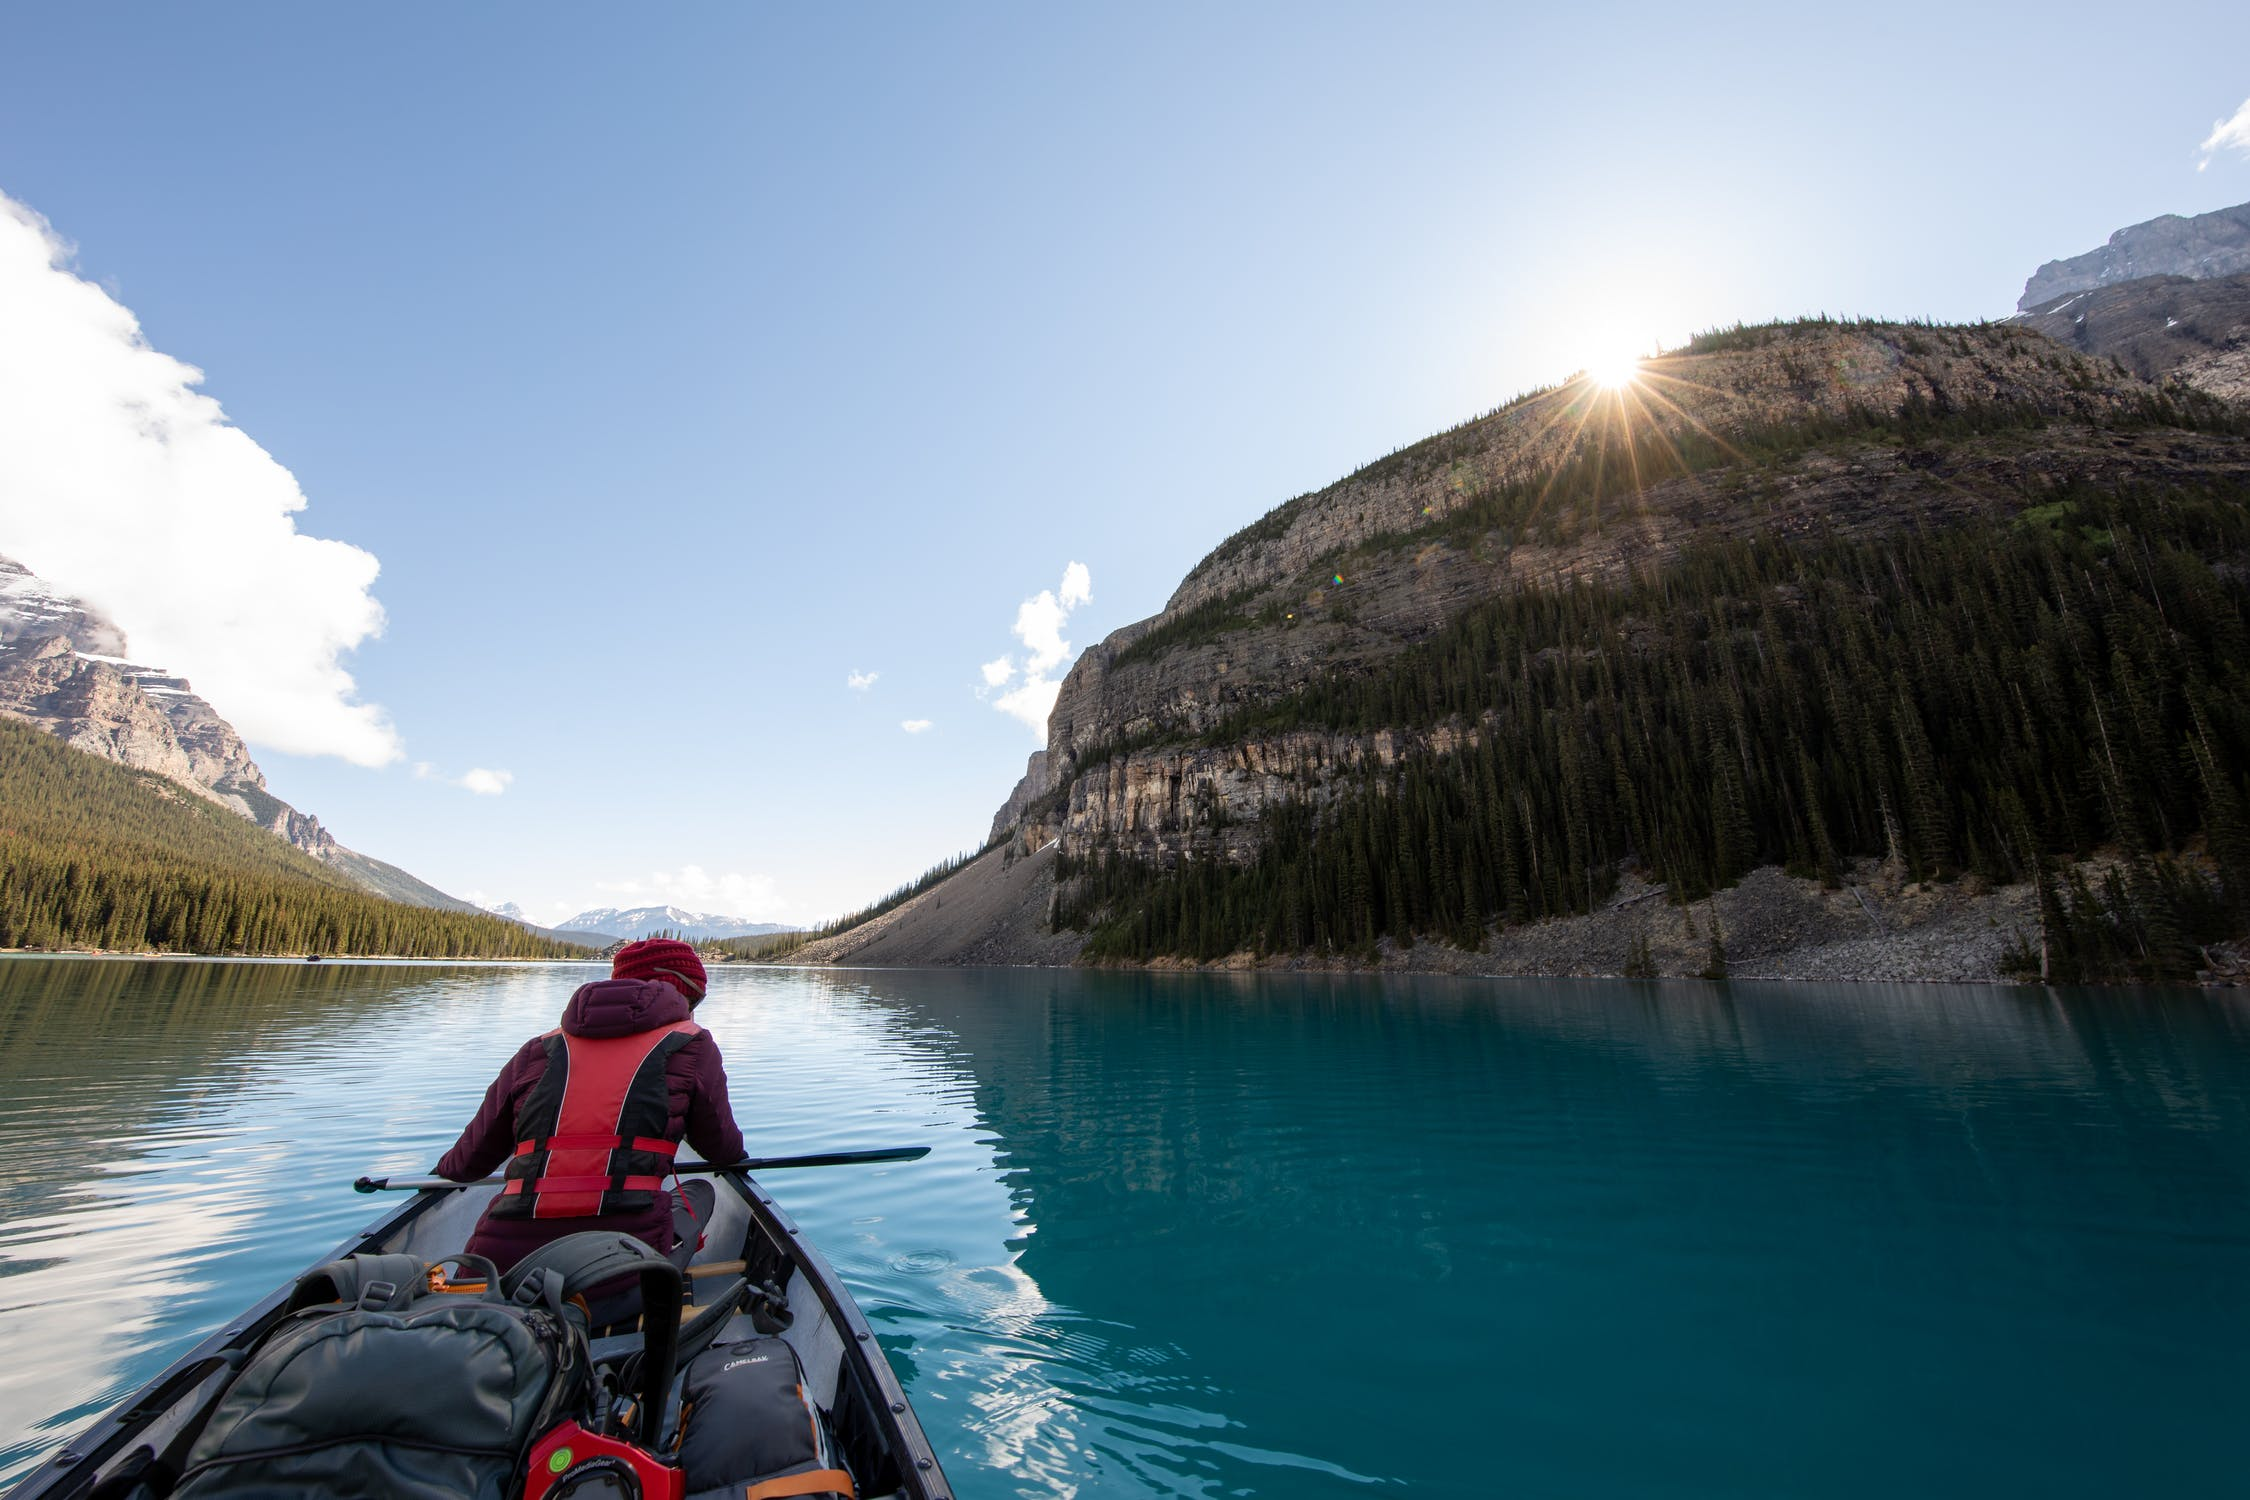
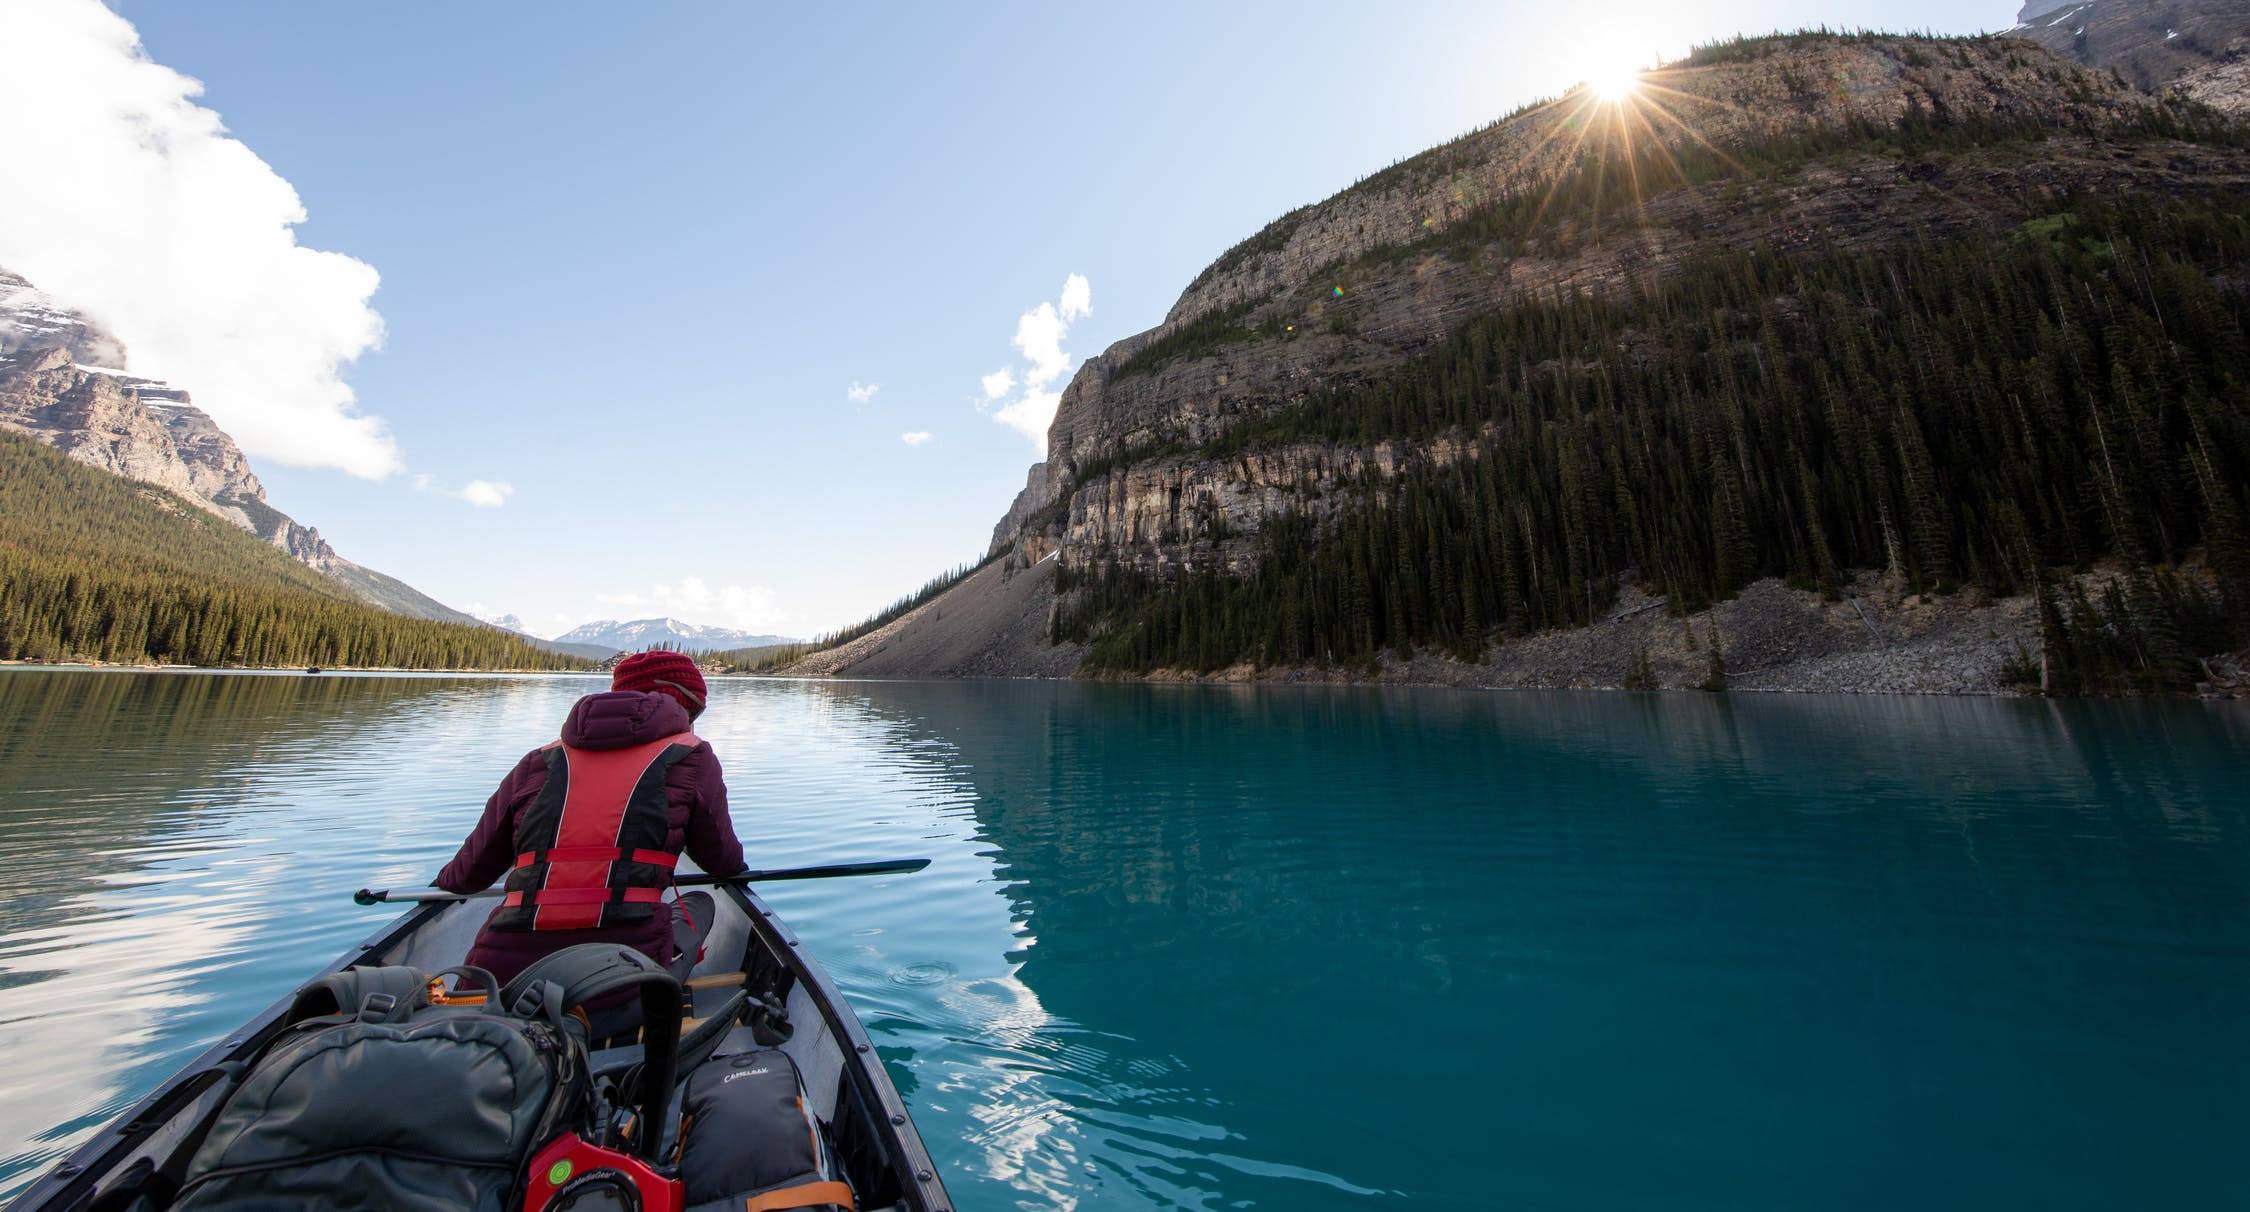
index December 26 2020

diff --git a/index.html b/index.html
@@ -32,11 +32,74 @@
                     <h4>A Better Way To Camp</h4>
                 </div>
                 <div class="col-md-4 col-xl-2 mt-4">
-                    <a href="#reserveForm" role="button" class="btn btn-lg btn-info" data-toggle="tooltip" data-placement="bottom" data-html="true" title="Or call us at <br /><strong>1-206-555-1234</strong>">Reservation</a>
+                    <a href="" role="button" class="btn btn-lg btn-info" data-html="true" data-toggle="modal" data-target="#reserveModal">Reservation</a>
                 </div>
             </div>
         </div>
     </header>
+
+    <div id="reserveModal" class="modal fade" role="dialog">
+        <div class="modal-dialog modal-lg" role="document">
+            <div class="modal-content">
+                <div class="modal-header bg-info text-white">
+                    <h3 class="modal-title">Reserve a Campsite</h3>
+                    <button type="button" class="close" data-dismiss="modal">&times;</button>
+                </div>
+                <div class="modal-body">
+                    <div class="container-fluid">
+                        <form id="reserveForm">
+                            <div class="row form-group">
+                                <label class="col-sm-6 col-xs-12 col-form-label">Number of Campers</label>
+                                <div class="col">
+                                    <select class="form-control" name="numCampers" id="numCampers">
+                                        <option>Select...</option>
+                                        <option value="1">1</option>
+                                        <option value="2">2</option>
+                                        <option value="3">3</option>
+                                        <option value="4">4</option>
+                                        <option value="5">5</option>
+                                        <option value="6">6</option>
+                                    </select>
+                                </div>
+                            </div>
+
+                            <div class="row form-group">
+                                <label for="date" class="col col-form-label">Date</label>
+                                <div class="col-sm-6 col-xs-12">
+                                    <input class="form-control" type="date" id="date" name="date">
+                                </div>
+                            </div>
+
+                            <div class="row row-group">
+                                <label class="col-sm-6 col-xs-12 col-form-label">Campsite Type</label>
+                                <div class="col-2">
+
+                                    <div class="btn-group btn-group-toggle" data-toggle="buttons">
+                                        <label class="btn btn-success active">
+                                            <input type="radio" name="siteType" id="siteTent" autocomplete="off" checked> Tent
+                                        </label>
+                                        <label class="btn btn-primary">
+                                            <input type="radio" name="siteType" id="siteRV" autocomplete="off"> RV
+                                        </label>
+                                    </div>
+
+                                </div>
+
+                            </div>
+
+                            <div class="row form-group">
+                                <div class="col">
+                                    <button class="btn btn-secondary" type="reset" data-dismiss="modal">Cancel</button>
+                                    <button class="btn btn-primary" type="submit">Submit</button>
+                                </div>
+                            </div>
+
+                        </form>
+                    </div>
+                </div>
+            </div>
+        </div>
+    </div>
 
     <nav class="navbar navbar-expand-sm navbar-dark sticky-top">
         <div class="container">
@@ -197,45 +260,7 @@
                 </div>
             </div>
         </div>
-        <div class="row row-content align-items-center">
-            <div class="col col-sm-6 mx-auto">
-                <div class="card">
-                    <h3 class="card-header text-white bg-info">Reserve a Campsite</h3>
-                    <div class="card-body">
-                        <form id="reserveForm">
-                            <div class="row form-group">
-                                <label class="col-sm-6 col-xs-12 col-form-label">Number of Campers</label>
-                                <div class="col">
-                                    <select class="form-control" name="numCampers" id="numCampers">
-                                        <option>Select...</option>
-                                        <option value="1">1</option>
-                                        <option value="2">2</option>
-                                        <option value="3">3</option>
-                                        <option value="4">4</option>
-                                        <option value="5">5</option>
-                                        <option value="6">6</option>
-                                    </select>
-                                </div>
-                            </div>
 
-                            <div class="row form-group">
-                                <label for="date" class="col col-form-label">Date</label>
-                                <div class="col-sm-6 col-xs-12">
-                                    <input class="form-control" type="date" id="date" name="date">
-                                </div>
-                            </div>
-
-                            <div class="row form-group">
-                                <div class="col">
-                                    <button class="btn btn-primary" type="submit">Search</button>
-                                </div>
-                            </div>
-
-                        </form>
-                    </div>
-                </div>
-            </div>
-        </div>
     </div>
 
 
@@ -261,7 +286,6 @@
                     </ul>
                 </div>
                 <div class="col-6 col-sm-5 text-center">
-                    <h5>Social</h5>
                     <a class="btn btn-social-icon btn-instagram" href="http://instagram.com/"><i class="fa fa-instagram"></i></a>
                     <a class="btn btn-social-icon btn-facebook" href="http://facebook.com/"><i class="fa fa-facebook"></i></a>
                     <a class="btn btn-social-icon btn-twitter" href="http://twitter.com/"><i class="fa fa-twitter"></i></a>

diff --git a/css/styles.css b/css/styles.css
@@ -36,7 +36,7 @@ a:hover {
 
 .site-footer {
   background-image: linear-gradient(#000000, rgb(37, 1, 23));
-  padding: 20px 0;
+  padding: 50px 0;
 }
 
 .jumbotron {
@@ -58,12 +58,31 @@ a:hover {
 
 .carousel-caption {
   background-color: rgba(0, 0, 0, 0.5);
-}
-
-.carousel {
+  max-width: 100%;
+  width: 100%;
+  left: 0;
+  padding-left: 100px;
+  padding-right: 100px;
 }
 
 .btn {
   background-color: #220707;
   font-size: 1rem;
+}
+
+.btn-info {
+  color: #fff;
+  background-color: #220707;
+  border-color: #17a2b8;
+}
+
+.carousel-item {
+  height: 800px;
+}
+
+.carousel-item img {
+  position: absolute;
+  top: 0;
+  left: 0;
+  min-height: 800px;
 }
